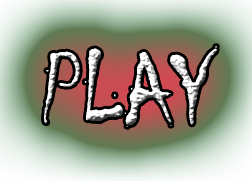
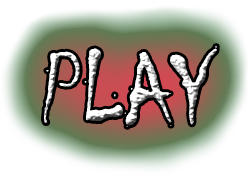
play Button Upgrade , lookin spiffy

Changed region(s): [[0.0, 0.0, 1.0, 0.9669]]

diff --git a/SDLTry2/SDLHelper.cpp b/SDLTry2/SDLHelper.cpp
@@ -630,9 +630,6 @@ void SDLHelper::ShowMainMenu()
 	SDL_Rect rec = { 0, 0, MyWindow::m_Width, MyWindow::m_Height };
 	SDL_RenderCopy(m_pRenderer, m_pbackground, NULL, &rec);
 
-// 	m_pInGameTitle->setPos((MyWindow::m_Width / 2) - (m_pInGameTitle->getWidth() / 2), 0);
-// 	m_pInGameTitle->Render(); //RENDER THE TEST TEXT
-
 	if (m_Buttons.size() > 0)
 	{
 		for (int i = 0; i < m_Buttons.size(); i++)
@@ -642,9 +639,6 @@ void SDLHelper::ShowMainMenu()
 			m_Buttons[i]->m_pButtonTex->Render();
 		}
 	}
-
-// 	m_pInGameTitle->setPos((MyWindow::m_Width / 2) - (m_pInGameTitle->getWidth() / 2), 0);
-// 	m_pInGameTitle->Render(); //RENDER THE TITLE TEXT
 }
 
 void SDLHelper::ShowPaused()
@@ -772,6 +766,8 @@ void SDLHelper::ShowGameOn()
 	}
 }
 
+
+
 //LOAD SCREENS**********************************************
 void SDLHelper::LoadMainMenu()
 {
@@ -782,13 +778,13 @@ void SDLHelper::LoadMainMenu()
 		if (!m_Buttons.empty())
 		{
 			m_Buttons.clear();
-			std::cout << m_Buttons.size() << std::endl;
+			//std::cout << m_Buttons.size() << std::endl;
 		}
 	
 
 	//ADD BUTTONS
-	Button* playBut = new Button(MyWindow::m_Width / 2, MyWindow::m_Height / 2, 150, 60, 0, m_pRenderer, "playButt", 20);
-	playBut->m_pButtonTex->LoadFile("Pics/playButton.png");
+	Button* playBut = new Button(MyWindow::m_Width / 2, MyWindow::m_Height / 2, 250, 200, 0, m_pRenderer, "playButt", 20);
+	playBut->m_pButtonTex->LoadFile("Pics/playButt.png");
 	m_Buttons.push_back(playBut);
 	
 	*m_pLoadedState = LoadedState::MAINMENU;
